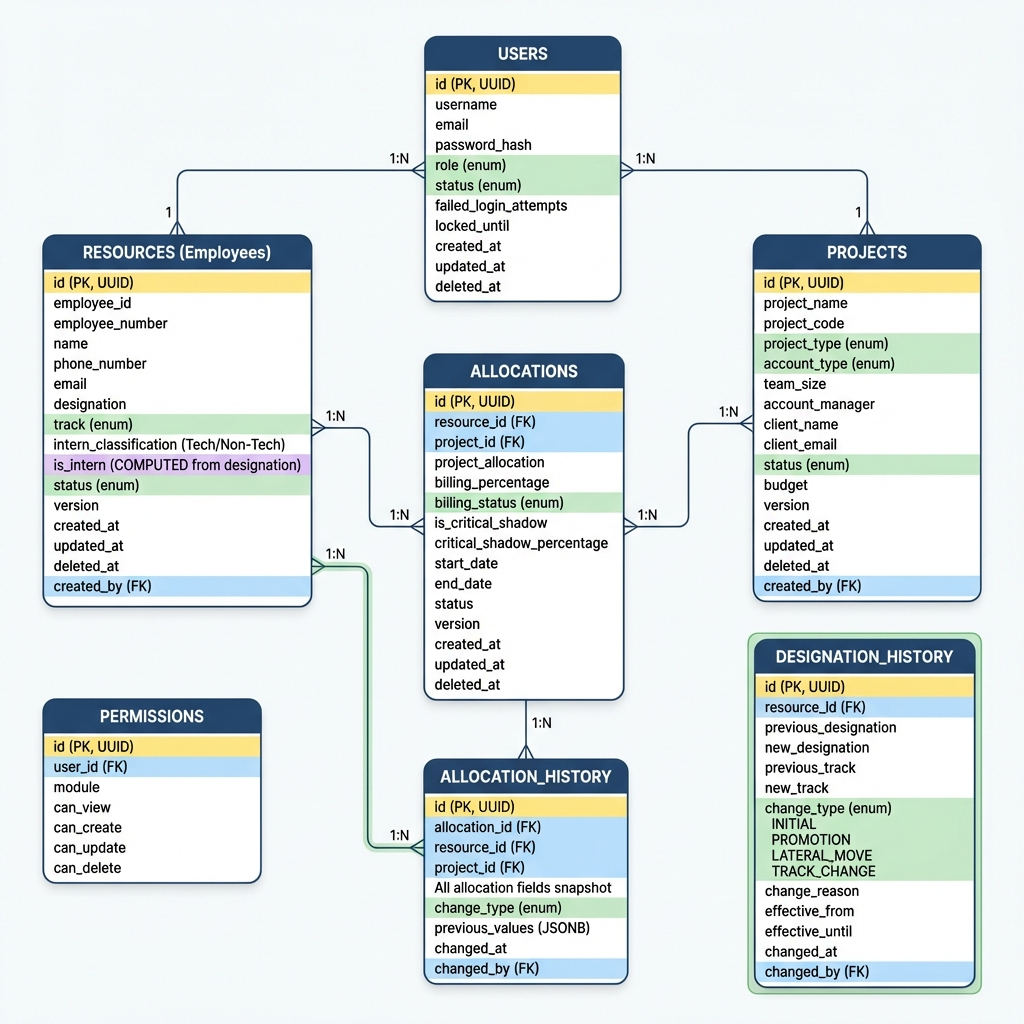
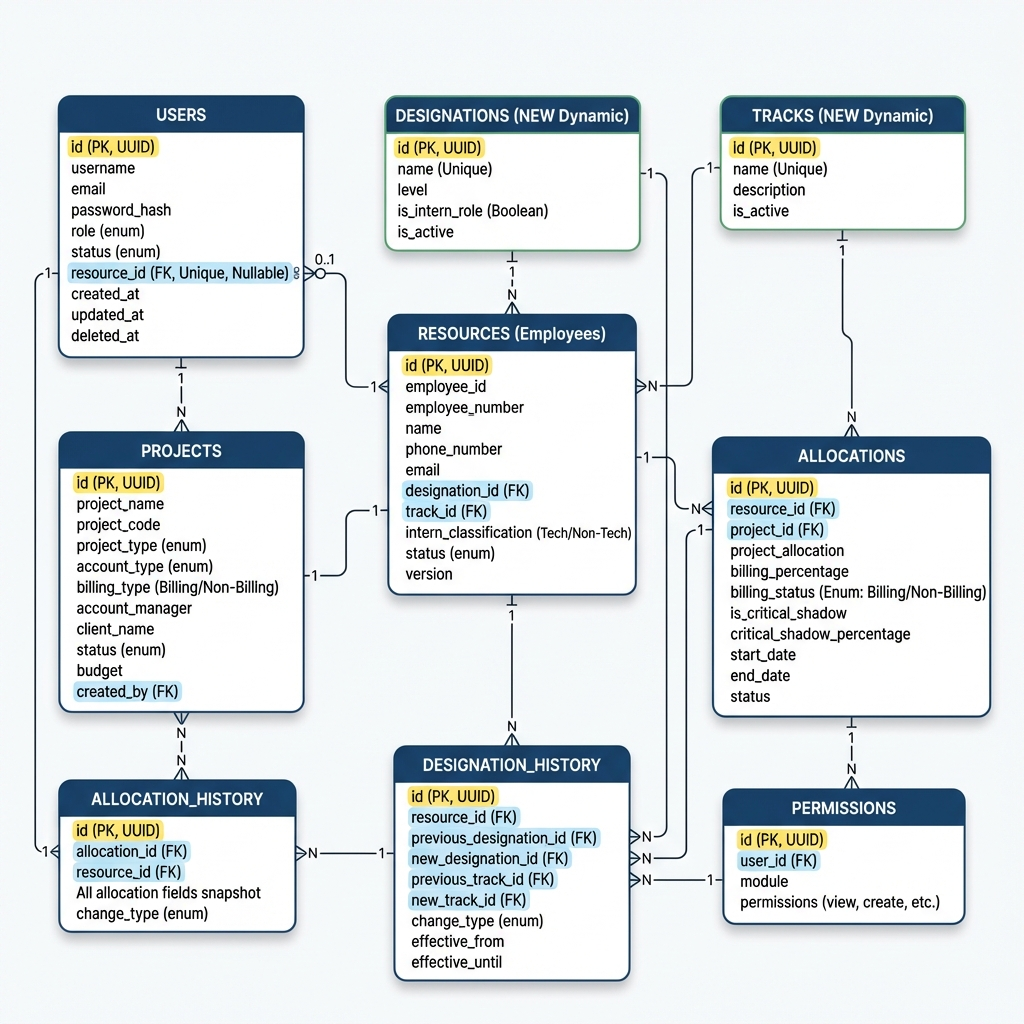
updated db tables

diff --git a/documents/backend-architecture.md b/documents/backend-architecture.md
@@ -101,6 +101,18 @@ This document outlines a production-grade, serverless backend architecture for t
 │   ├── DELETE /{id}                # Soft delete resource
 │   ├── GET    /{id}/allocations    # Get resource allocations
 │   └── GET    /{id}/designation-history  # Get designation/career history
+├── /designations
+│   ├── GET    /                    # List designations
+│   ├── POST   /                    # Create designation
+│   ├── GET    /{id}                # Get designation
+│   ├── PUT    /{id}                # Update designation
+│   └── DELETE /{id}                # Soft delete designation
+├── /tracks
+│   ├── GET    /                    # List tracks
+│   ├── POST   /                    # Create track
+│   ├── GET    /{id}                # Get track
+│   ├── PUT    /{id}                # Update track
+│   └── DELETE /{id}                # Soft delete track
 ├── /projects
 │   ├── GET    /                    # List projects
 │   ├── POST   /                    # Create project
@@ -276,8 +288,8 @@ CREATE TYPE resource_status AS ENUM ('Active', 'Inactive', 'Serving Notice Perio
 CREATE TYPE project_status AS ENUM ('Active', 'Inactive', 'Completed', 'On Hold');
 CREATE TYPE project_type AS ENUM ('Client', 'Bench', 'Training', 'POC', 'Presale', 'Research');
 CREATE TYPE account_type AS ENUM ('Internal', 'External');
-CREATE TYPE billing_status AS ENUM ('Billing', 'Non-Billing', 'Bench', 'Training', 'Presale');
-CREATE TYPE track_type AS ENUM ('FS', '.Net', 'DS', 'UI/UX', 'QA', 'PM/BA');
+-- Simplified per user request: only 'Billing' or 'Non-Billing'. Rest are project types.
+CREATE TYPE billing_status AS ENUM ('Billing', 'Non-Billing');
 CREATE TYPE change_type AS ENUM ('CREATED', 'UPDATED', 'DELETED', 'RESTORED');
 
 -- =====================================================
@@ -306,6 +318,7 @@ CREATE TABLE users (
     
     -- Authorization Fields
     role user_role NOT NULL DEFAULT 'User',
+    resource_id UUID UNIQUE REFERENCES resources(id) ON DELETE SET NULL,  -- Link to Employee profile
     
     -- Security Fields
     failed_login_attempts INTEGER DEFAULT 0 CHECK (failed_login_attempts >= 0),
@@ -335,6 +348,33 @@ CREATE TRIGGER users_updated_at
     FOR EACH ROW EXECUTE FUNCTION update_updated_at_column();
 
 -- =====================================================
+-- TRACKS TABLE (Dynamic)
+-- =====================================================
+CREATE TABLE tracks (
+    id UUID PRIMARY KEY DEFAULT gen_random_uuid(),
+    name VARCHAR(50) NOT NULL UNIQUE,  -- e.g., 'FS', '.Net', 'DS', 'QA'
+    description TEXT,
+    is_active BOOLEAN DEFAULT TRUE,
+    created_at TIMESTAMP WITH TIME ZONE DEFAULT CURRENT_TIMESTAMP,
+    updated_at TIMESTAMP WITH TIME ZONE DEFAULT CURRENT_TIMESTAMP,
+    created_by UUID REFERENCES users(id)
+);
+
+-- =====================================================
+-- DESIGNATIONS TABLE (Dynamic)
+-- =====================================================
+CREATE TABLE designations (
+    id UUID PRIMARY KEY DEFAULT gen_random_uuid(),
+    name VARCHAR(50) NOT NULL UNIQUE,  -- e.g., 'Senior Software Engineer', 'Intern - SE'
+    level INTEGER,                     -- Optional hierarchy level
+    is_intern_role BOOLEAN DEFAULT FALSE, -- Flag to identify intern roles
+    is_active BOOLEAN DEFAULT TRUE,
+    created_at TIMESTAMP WITH TIME ZONE DEFAULT CURRENT_TIMESTAMP,
+    updated_at TIMESTAMP WITH TIME ZONE DEFAULT CURRENT_TIMESTAMP,
+    created_by UUID REFERENCES users(id)
+);
+
+-- =====================================================
 -- RESOURCES TABLE (Employees)
 -- =====================================================
 CREATE TABLE resources (
@@ -351,20 +391,14 @@ CREATE TABLE resources (
     email VARCHAR(100),
     address VARCHAR(500),
     
-    -- Role Information
-    designation VARCHAR(50) NOT NULL,
-    track track_type NOT NULL,
+    -- Role Information (Linked to dynamic tables)
+    designation_id UUID NOT NULL REFERENCES designations(id),
+    track_id UUID NOT NULL REFERENCES tracks(id),
     
     -- Intern Classification (Only for Dev track interns: Tech or Non-Tech)
-    -- NOTE: is_intern is COMPUTED from designation - no manual input needed
     intern_classification VARCHAR(20) CHECK (
         intern_classification IN ('Tech', 'Non-Tech') OR intern_classification IS NULL
     ),
-    
-    -- Computed Column: Derived from designation (always consistent, no duplication)
-    is_intern BOOLEAN GENERATED ALWAYS AS (
-        designation LIKE 'Intern%'
-    ) STORED,
     
     -- Skills & Experience
     skills TEXT[] DEFAULT '{}',
@@ -390,12 +424,6 @@ CREATE TABLE resources (
     CONSTRAINT resources_employee_id_unique UNIQUE (employee_id) WHERE deleted_at IS NULL,
     CONSTRAINT resources_employee_number_unique UNIQUE (employee_number) WHERE deleted_at IS NULL,
     CONSTRAINT resources_name_length CHECK (length(name) >= 2),
-    -- Intern classification only valid for employees with Intern designation
-    CONSTRAINT resources_intern_classification_valid CHECK (
-        (designation LIKE 'Intern%' AND track IN ('FS', '.Net', 'DS', 'UI/UX') AND intern_classification IS NOT NULL) OR
-        (designation LIKE 'Intern%' AND track NOT IN ('FS', '.Net', 'DS', 'UI/UX')) OR
-        (designation NOT LIKE 'Intern%' AND intern_classification IS NULL)
-    ),
     CONSTRAINT resources_notice_period_valid CHECK (
         (status = 'Serving Notice Period' AND notice_period_end_date IS NOT NULL) OR
         (status != 'Serving Notice Period')
@@ -602,10 +630,10 @@ CREATE TABLE designation_history (
     resource_id UUID NOT NULL REFERENCES resources(id) ON DELETE CASCADE,
     
     -- Designation Change Details
-    previous_designation VARCHAR(50),           -- NULL for initial record
-    new_designation VARCHAR(50) NOT NULL,
-    previous_track track_type,                  -- NULL for initial record
-    new_track track_type NOT NULL,
+    previous_designation_id UUID REFERENCES designations(id),
+    new_designation_id UUID NOT NULL REFERENCES designations(id),
+    previous_track_id UUID REFERENCES tracks(id),
+    new_track_id UUID NOT NULL REFERENCES tracks(id),
     
     -- Change Context
     change_type VARCHAR(30) NOT NULL CHECK (
@@ -646,24 +674,23 @@ BEGIN
         v_change_type := 'INITIAL';
         
         INSERT INTO designation_history (
-            resource_id, previous_designation, new_designation,
-            previous_track, new_track, change_type, effective_from, changed_by
+            resource_id, previous_designation_id, new_designation_id,
+            previous_track_id, new_track_id, change_type, effective_from, changed_by
         ) VALUES (
-            NEW.id, NULL, NEW.designation,
-            NULL, NEW.track, v_change_type, COALESCE(NEW.date_of_joining, CURRENT_DATE), NEW.created_by
+            NEW.id, NULL, NEW.designation_id,
+            NULL, NEW.track_id, v_change_type, COALESCE(NEW.date_of_joining, CURRENT_DATE), NEW.created_by
         );
         RETURN NEW;
         
     ELSIF TG_OP = 'UPDATE' THEN
         -- Only track if designation or track actually changed
-        IF OLD.designation != NEW.designation OR OLD.track != NEW.track THEN
+        IF OLD.designation_id != NEW.designation_id OR OLD.track_id != NEW.track_id THEN
             -- Determine change type
-            IF OLD.track != NEW.track THEN
+            IF OLD.track_id != NEW.track_id THEN
                 v_change_type := 'TRACK_CHANGE';
-            ELSIF NEW.designation LIKE '%Senior%' OR NEW.designation LIKE '%Lead%' OR 
-                  NEW.designation LIKE 'STL%' OR NEW.designation LIKE 'ATL%' THEN
-                v_change_type := 'PROMOTION';
             ELSE
+                -- Logic to detect promotion vs lateral move would require querying designation levels
+                -- Defaulting to UPDATED/LATERAL_MOVE for now
                 v_change_type := 'LATERAL_MOVE';
             END IF;
             
@@ -675,11 +702,11 @@ BEGIN
             
             -- Insert new designation record
             INSERT INTO designation_history (
-                resource_id, previous_designation, new_designation,
-                previous_track, new_track, change_type, effective_from, changed_by
+                resource_id, previous_designation_id, new_designation_id,
+                previous_track_id, new_track_id, change_type, effective_from, changed_by
             ) VALUES (
-                NEW.id, OLD.designation, NEW.designation,
-                OLD.track, NEW.track, v_change_type, CURRENT_DATE, NEW.updated_by
+                NEW.id, OLD.designation_id, NEW.designation_id,
+                OLD.track_id, NEW.track_id, v_change_type, CURRENT_DATE, NEW.updated_by
             );
         END IF;
         RETURN NEW;
@@ -691,22 +718,6 @@ $$ LANGUAGE plpgsql;
 CREATE TRIGGER trg_designation_history
     AFTER INSERT OR UPDATE ON resources
     FOR EACH ROW EXECUTE FUNCTION capture_designation_history();
-
--- Users Table
-CREATE TABLE users (
-    id UUID PRIMARY KEY DEFAULT gen_random_uuid(),
-    username VARCHAR(50) NOT NULL UNIQUE,
-    email VARCHAR(100) NOT NULL UNIQUE,
-    password_hash VARCHAR(255) NOT NULL,
-    role VARCHAR(20) NOT NULL,
-    status VARCHAR(20) DEFAULT 'Active',
-    last_login TIMESTAMP,
-    failed_login_attempts INTEGER DEFAULT 0,
-    locked_until TIMESTAMP,
-    created_at TIMESTAMP DEFAULT CURRENT_TIMESTAMP,
-    updated_at TIMESTAMP DEFAULT CURRENT_TIMESTAMP,
-    created_by UUID REFERENCES users(id)
-);
 
 -- Permissions Table
 CREATE TABLE permissions (
